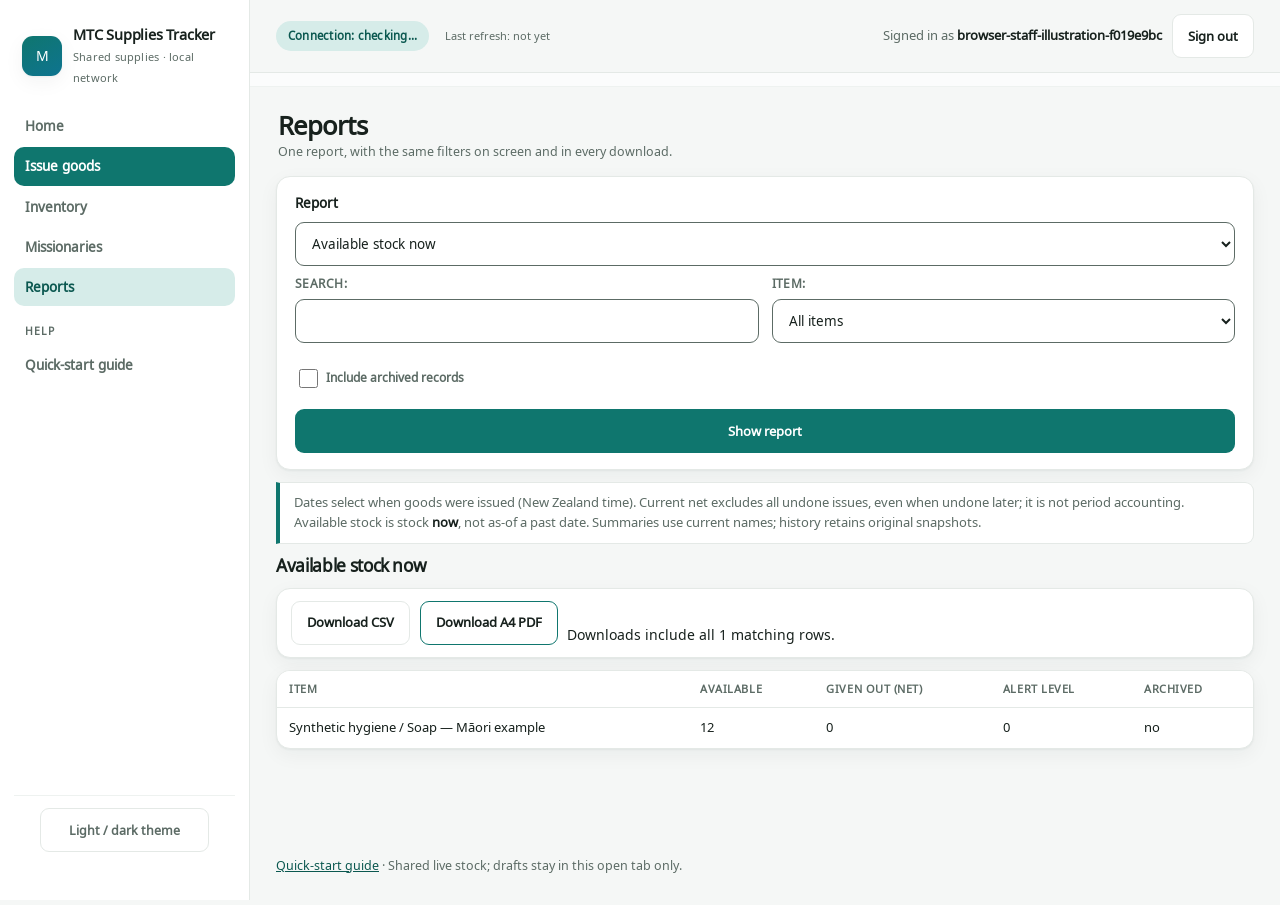
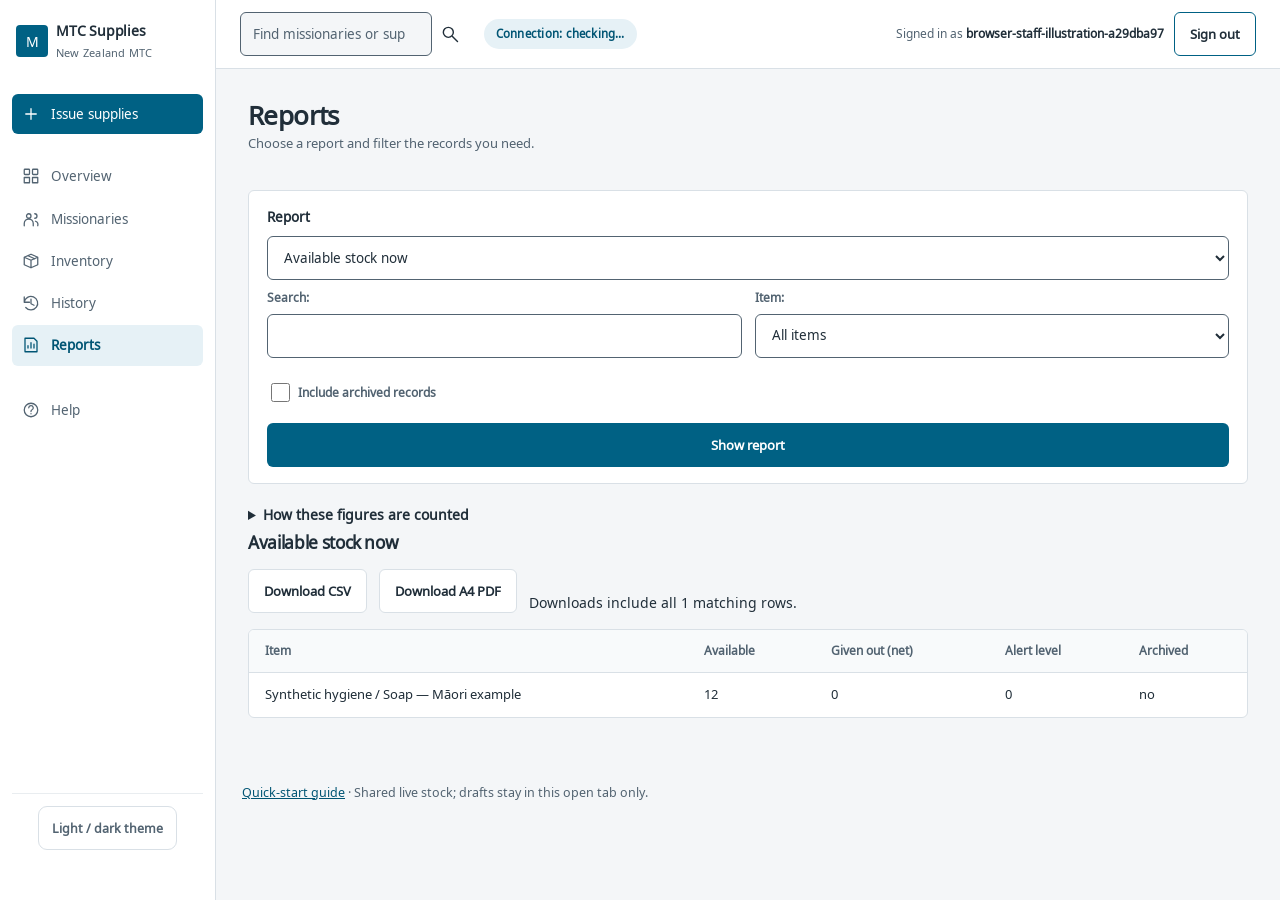
docs: refresh synthetic guide illustrations and trial workflow

diff --git a/README.md b/README.md
@@ -186,7 +186,7 @@ may appear while typing; this is normal. Expect `Created administrator`.
 Running the command again resets that account's password and signs it out.
 
 Sign in in the browser as `tracker-admin` with that temporary password. The
-application asks you to choose a new password before proceeding to Home.
+application asks you to choose a new password before proceeding to Overview.
 
 Before real use, complete the [sample test](#try-a-complete-workflow) with invented
 data. Do not later mix trial records into a real roster: arrange a separate empty
@@ -262,7 +262,7 @@ release version. The local-certificate warning described above may appear;
 `127.0.0.1` refers only to your own computer.
 
 Then open **https://127.0.0.1:18443/**. Sign in as `demo-admin` and change the
-temporary password when asked. Home should show an empty roster/inventory.
+temporary password when asked. Overview should show an empty roster/inventory.
 Follow the sample below to try the app.
 
 Stop the trial without deleting its records:
@@ -285,17 +285,18 @@ want to retain the trial. Do not share this trial address with other computers.
 
 Use these **invented** examples on an empty trial/evaluation installation:
 
-1. **Missionaries → Add a person:** enter External ID `DEMO-001` and Full name
+1. **Missionaries → Add a missionary:** enter External ID `DEMO-001` and Full name
    `Demo Missionary`. Leave optional fields blank and save.
 2. **Inventory → Add an item:** enter Category `Demo hygiene`, Item name
    `Demo soap`, Unit `each`, Opening quantity `10`, Low-stock alert level `2`
    and Reason `Demo opening stock`. Save; **Available** should be **10**.
-3. **Issue goods:** search and explicitly choose `Demo Missionary`. Select
-   `Demo soap`, enter quantity `2`, choose **Add to issue**, review the named
-   summary and choose **Issue goods**. Inventory should now show **8** available.
-4. Open that inventory item. Under **Add stock**, enter quantity `3` and reason
+3. **Issue supplies:** search and choose the `Demo Missionary` suggestion. Use
+   **Add** on the `Demo soap` catalogue row, set quantity `2` in the summary,
+   review the named recipient and choose **Issue supplies**. Inventory should now
+   show **8** available.
+4. Open **Add stock** from that item's row or profile. In the panel, enter quantity `3` and reason
    `Demo delivery`. Submit; Available should be **11**.
-5. **Issue goods → History:** open the issue from step 3. Give reason
+5. **History:** open the issue from step 3. Give reason
    `Demo undo test` and choose **Undo this issue**. Available should be **13**;
    the issue remains in history marked **Undone**.
 6. **Reports:** select **Available stock now** and choose **Show report**. Download
